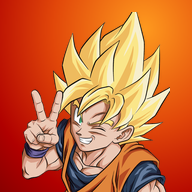
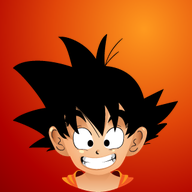
Icône de l'app : la tête de Goku choisie par Lolo
Les icônes (écran d'accueil, onglet du navigateur) viennent maintenant de
Dragonball-Goku.ico ; le grand Goku de l'accueil ne change pas.

Claude-Session: https://claude.ai/code/session_01VPQp5MymMA1F359eYU37bR

diff --git a/sw.js b/sw.js
@@ -1,7 +1,7 @@
 // Garde l'application disponible hors connexion (les données passent par le cache de Firestore).
 // Changer le numéro de version à chaque mise en ligne pour forcer la mise à jour sur les téléphones.
-const C="dbday-v2";
-const FILES=["./","index.html","css/app.css","firebase-config.js","manifest.webmanifest","icon-192.png","apple-touch-icon.png",
+const C="dbday-v3";
+const FILES=["./","index.html","css/app.css","firebase-config.js","manifest.webmanifest","icon-192.png","apple-touch-icon.png","favicon.ico",
   "js/outils.js","js/donnees.js","js/modules.js","js/vues/accueil.js","js/vues/taches.js","js/vues/contacts.js","js/vues/editions.js","js/vues/reglages.js","js/app.js",
   "img/logo.webp","img/favicon.png","img/goku.webp","img/saiyaman.webp","img/bulma.webp","img/chichi.webp","img/piccolo.webp","img/trunks.webp","img/freezer.webp",
   "vendor/firebase-app-compat.js","vendor/firebase-auth-compat.js","vendor/firebase-firestore-compat.js"];

diff --git a/index.html b/index.html
@@ -9,7 +9,8 @@
 <meta name="apple-mobile-web-app-title" content="DB Day">
 <link rel="manifest" href="manifest.webmanifest">
 <link rel="apple-touch-icon" href="apple-touch-icon.png">
-<link rel="icon" href="img/favicon.png">
+<link rel="icon" href="favicon.ico" sizes="any">
+<link rel="icon" href="img/favicon.png" type="image/png">
 <link rel="preconnect" href="https://fonts.googleapis.com">
 <link rel="stylesheet" href="https://fonts.googleapis.com/css2?family=Lilita+One&family=Nunito+Sans:opsz,wght@6..12,400;6..12,600;6..12,800&display=swap">
 <link rel="stylesheet" href="css/app.css">

diff --git a/tools/preparer_images.py b/tools/preparer_images.py
@@ -1,6 +1,6 @@
 # Prépare les images de l'application à partir des dessins originaux (très grands PNG).
 # Usage : python3 tools/preparer_images.py DOSSIER_DES_ORIGINAUX
-# Le dossier doit contenir logo-dragonballday.png et les dessins (Goku.png, Freezer.png, IMG_9742.PNG…).
+# Le dossier doit contenir logo-dragonballday.png, les dessins (Goku.png, Freezer.png, IMG_9742.PNG…) et Dragonball-Goku.ico (icône de l'app).
 import os,sys
 from PIL import Image,ImageDraw,ImageFilter
 import numpy as np
@@ -37,7 +37,8 @@ for nom,f in PERSOS.items():
 logo=recadrer(detourer_fond_blanc(Image.open(os.path.join(SRC,'logo-dragonballday.png'))),0.01)
 l=logo.copy(); l.thumbnail((640,640),Image.LANCZOS); l.save(os.path.join(OUT,'logo.webp'),'WEBP',quality=90,method=6)
 
-# Icône : Goku (dessin de Lolo) sur un fond dégradé orange → rouge, comme le bandeau de l'accueil.
+# Icône de l'app : la tête de Goku choisie par Lolo (Dragonball-Goku.ico) sur le dégradé orange → rouge du bandeau d'accueil.
+# Le Goku détouré de l'accueil (goku.webp) reste le grand dessin.
 def fond_degrade(t):
     import math
     f=Image.new('RGB',(t,t)); px=f.load()
@@ -48,12 +49,13 @@ def fond_degrade(t):
             for (a,ca),(b,cb) in zip(stops,stops[1:]):
                 if d<=b: k=(d-a)/(b-a); px[x,y]=tuple(int(ca[i]+(cb[i]-ca[i])*k) for i in range(3)); break
     return f
-fg='Goku-icone.png' if os.path.exists(os.path.join(SRC,'Goku-icone.png')) else 'Goku.png'
-g=Image.open(os.path.join(SRC,fg)).convert('RGBA')
-if g.getpixel((5,5))[3]==255: g=detourer_fond_blanc(g,TROUS[fg])
-g=recadrer(g.crop((0,0,g.width,int(g.height*0.86))),0)  # tout le visage et les cheveux ; le bas du buste est coupé
+ico=Image.open(os.path.join(SRC,'Dragonball-Goku.ico')); ico.size=max(ico.info['sizes']); g=ico.convert('RGBA')
+g=g.crop(g.getbbox())
 base=fond_degrade(512)
-for nom,taille,marge in [('icon-512.png',512,0.06),('icon-192.png',192,0.06),('apple-touch-icon.png',180,0.04),('favicon.png',64,0.0)]:
-    fond=base.resize((taille,taille),Image.LANCZOS).convert('RGBA'); t=int(taille*(1-marge)); b=g.copy(); b.thumbnail((t,t),Image.LANCZOS)
-    fond.paste(b,((taille-b.width)//2,taille-b.height),b); fond.convert('RGB').save(os.path.join(ROOT,nom) if nom!='favicon.png' else os.path.join(OUT,nom))
+for nom,taille,marge in [('icon-512.png',512,0.14),('icon-192.png',192,0.14),('apple-touch-icon.png',180,0.1)]:
+    fond=base.resize((taille,taille),Image.LANCZOS).convert('RGBA'); t=int(taille*(1-marge)); b=g.resize((t,int(t*g.height/g.width)),Image.LANCZOS)
+    fond.paste(b,((taille-b.width)//2,taille-b.height),b); fond.convert('RGB').save(os.path.join(ROOT,nom))
+# Onglet du navigateur : l'icône telle quelle, sur fond transparent.
+f=g.copy(); f.thumbnail((64,64),Image.LANCZOS); fav=Image.new('RGBA',(64,64)); fav.paste(f,((64-f.width)//2,(64-f.height)//2)); fav.save(os.path.join(OUT,'favicon.png'))
+ico.save(os.path.join(ROOT,'favicon.ico'),sizes=[(16,16),(32,32),(48,48),(64,64)])
 print('Images prêtes dans',OUT)
